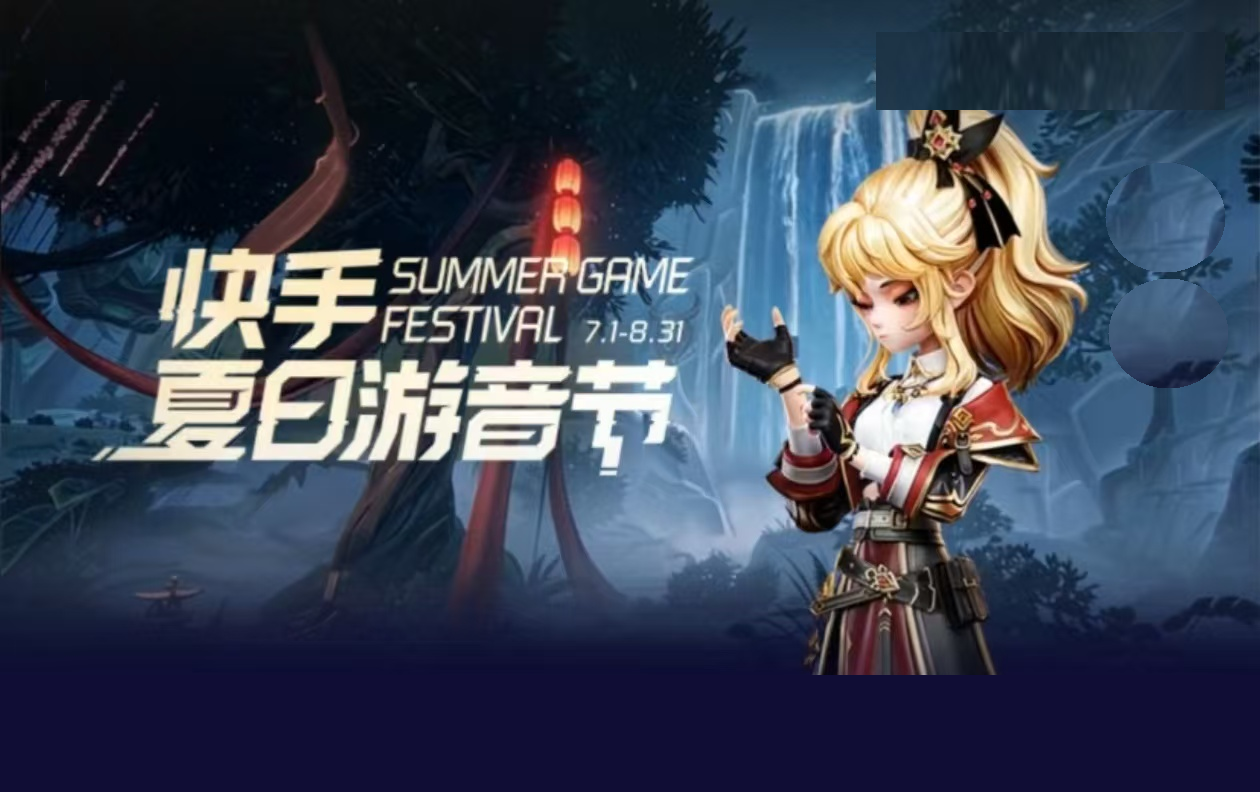
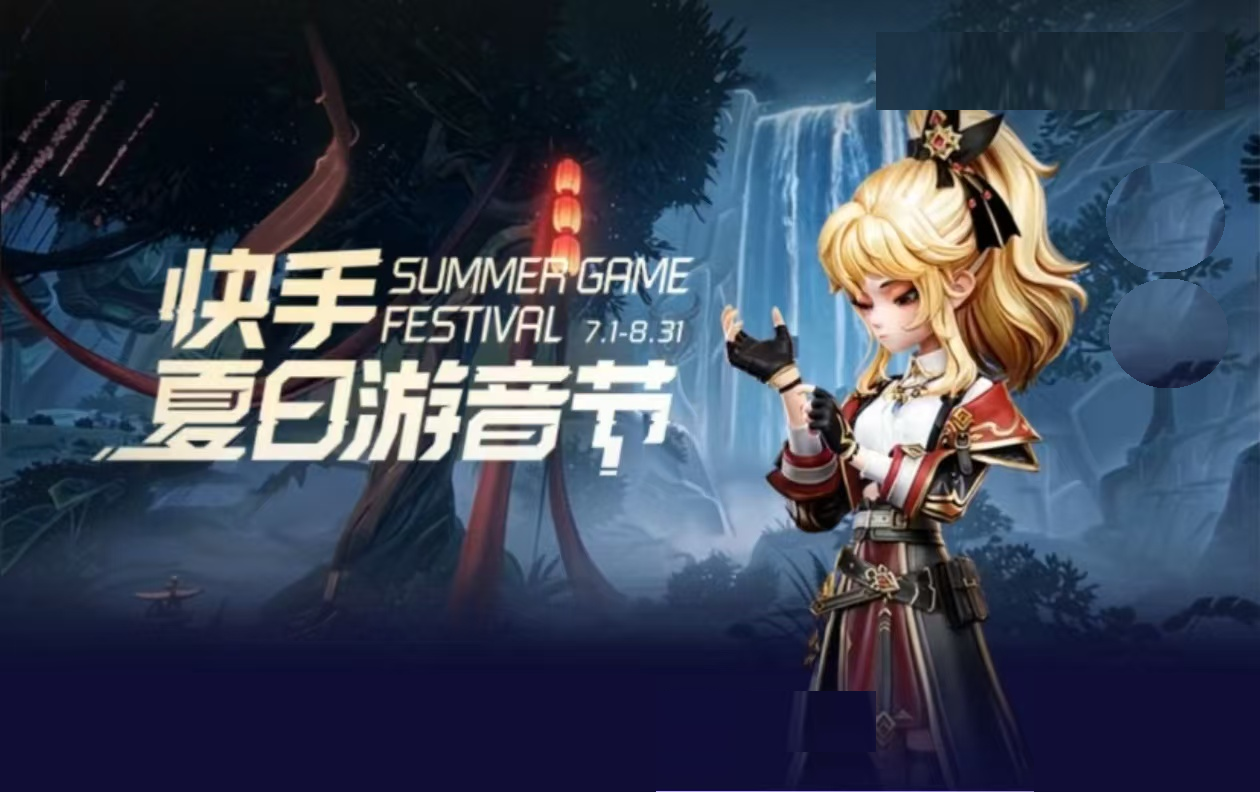
fix(activity): 保留游戏人物下沿并细化晶体层次

Changed region(s): [[0.619, 0.8485, 0.8048, 0.9697]]

diff --git a/examples/activity-target/src/components/activity/festival.module.css b/examples/activity-target/src/components/activity/festival.module.css
@@ -7,8 +7,8 @@
 .balance > span:last-child { font-size: 23px; line-height: 1; }
 .heroEntry { padding: 0; border: 1px solid #ffffff24; border-radius: 50%; background: #122b3970; color: #eff8f8; font-size: 10px; white-space: nowrap; }
 .collabHeader { display: flex; align-items: center; gap: 5px; }
-.collabHeader h1 { margin: 0; color: #fff1d6; font-size: 16px; line-height: 24px; font-weight: 900; letter-spacing: -.1px; white-space: nowrap; }
-.countdown { color: #e5def7; font-size: 10px; line-height: 16px; border-radius: 3px; padding: 0 3px; background: repeating-linear-gradient(90deg,#ffffff22 0 17px,transparent 17px 23px); white-space: pre; }
+.collabHeader h1 { margin: 0; color: #fff1d6; font-size: 17px; line-height: 24px; font-weight: 700; letter-spacing: -.35px; white-space: nowrap; }
+.countdown { position: absolute; left: 191px; top: 7px; color: #e5def7; font-size: 10px; line-height: 16px; border-radius: 3px; padding: 0 3px; background: repeating-linear-gradient(90deg,#ffffff22 0 17px,transparent 17px 23px); white-space: pre; }
 .collabHeader button { margin-left: auto; white-space: nowrap; border: 0; padding: 0; background: none; color: var(--muted); font-size: 10px; }
 .collabPanel { border: 1px solid #7355b23f; border-radius: 16px; background: radial-gradient(ellipse 70% 32% at 51% 0,#793cce99,transparent),linear-gradient(#21174e,#30186b); }
 .task { padding: 0; gap: 9px; background: none; border-radius: 0; }
@@ -18,7 +18,7 @@
 .task [data-d2c-node-id$="-title"] { font-size: 12.6px; line-height: 17px; font-weight: 500; letter-spacing: -.25px; }
 .follow [data-d2c-node-id$="-title"] { font-size: 11px; letter-spacing: -.45px; }
 .task [data-d2c-node-id$="-reward"] { color: var(--muted); font-size: 10px; line-height: 13px; }
-.task > button { position: relative; min-width: 77px; height: 34px; padding: 0 6px; border: 2px solid #8377d9; border-radius: 22px; color: #321347; font-size: 13px; font-weight: 600; background: linear-gradient(157deg,transparent 26%,#ffffffe0 27% 36%,transparent 37%),conic-gradient(from 55deg at 82% 55%,#aa83ed,#ddd1ff 22%,#ae92ef 38%,#e8ddff 65%,#d9c3ff); box-shadow: inset 0 0 0 2px #ffffff65,0 0 5px #c395ff80; }
+.task > button { position: relative; min-width: 77px; height: 34px; padding: 0 6px; border: 2px solid #9280d5; border-radius: 22px; color: #321347; font-size: 13px; font-weight: 600; background: linear-gradient(157deg,transparent 26%,#ffffffe0 27% 36%,transparent 37%),conic-gradient(from 55deg at 82% 55%,#aa83ed,#ddd1ff 22%,#ae92ef 38%,#e8ddff 65%,#d9c3ff); box-shadow: inset 0 0 0 2px #ffffff65; }
 .task > button:disabled { filter: saturate(.3); color: #726686; cursor: default; box-shadow: none; }
 .benefits { border-top: 1px solid #ffffff06; }
 .benefitHeading { height: 27px; display: flex; align-items: center; justify-content: space-between; color: var(--muted); font-size: 10px; }
@@ -45,6 +45,7 @@
 .tabs { position: absolute; z-index: 8; inset: auto 0 0; height: 61px; display: flex; align-items: stretch; }
 .tabs button { position: relative; width: 57%; flex-shrink: 0; border: 0; padding: 10px 0 0; clip-path: polygon(14% 0,94% 10%,100% 100%,0 100%,0 28%); color: #a6b8f2; background: linear-gradient(165deg,#849bea66 0 14%,transparent 15%),linear-gradient(20deg,#17208c,#33429a 64%,#172474); font-size: 17px; font-weight: 900; text-shadow: 0 0 3px #afc2ff77; }
 .tabs button + button { margin-left: -15px; width: calc(43% + 15px); clip-path: polygon(0 11%,88% 0,100% 26%,100% 100%,4% 100%); }
-.tabs button[aria-selected="true"] { z-index: 1; color: #fff; background: linear-gradient(160deg,#ffffff88 0 2%,transparent 3% 70%,#ffb7ff77 96%),radial-gradient(ellipse at 48% 110%,#ffd0ff,#bd63ff 40%,#6d2aec 80%); text-shadow: 0 0 7px #edbeff; box-shadow: inset 0 2px 3px #dbbcff; }
+.tabs button::before { content: ""; position: absolute; inset: 3px 7px 5px 4px; pointer-events: none; border: 2px solid #c9c4ff55; border-radius: 42% 28% 12% 8%; transform: skewX(10deg); background: linear-gradient(18deg,transparent 58%,#c7d1ff33 59%,transparent 74%); }
+.tabs button[aria-selected="true"] { z-index: 1; color: #fff; background: radial-gradient(circle at 16% 30%,#ffb3fc 0 1px,transparent 3px),radial-gradient(circle at 76% 17%,#b4ffff 0 1px,transparent 3px),linear-gradient(160deg,#718eff 0 5%,transparent 6% 65%,#ffb7ff77 92%,#72d4ffbb 98%),linear-gradient(20deg,#ac67ff,#7540f5 40%,#af66ff 63%,#244af2); text-shadow: 0 0 7px #edbeff; box-shadow: inset 0 2px 3px #dbbcff; }
 .tabs button[aria-selected="true"]::after { content: ""; position: absolute; width: 72%; height: 1px; background: linear-gradient(90deg,transparent,#70ffff,#eeceff,transparent); left: 14%; bottom: 21px; }
 .homeIndicator { position: absolute; z-index: 10; bottom: 2px; left: 117px; width: 156px; height: 3px; border-radius: 5px; background: #8e718b; }
